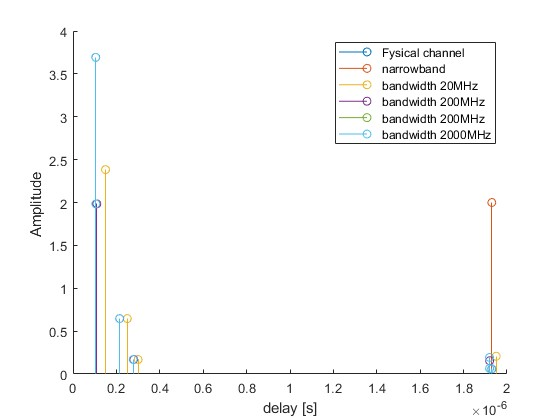
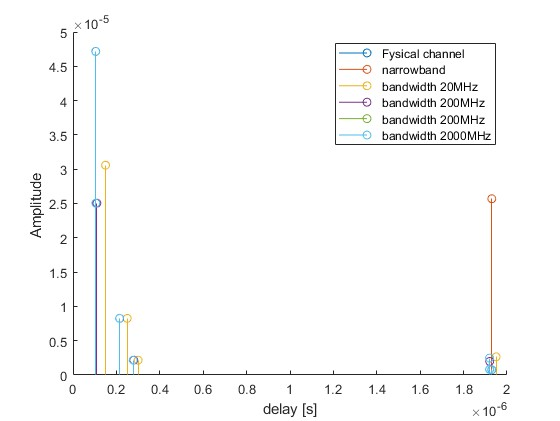
fixed impulse response (again)

diff --git a/receivedPowerCalc.m b/receivedPowerCalc.m
@@ -30,6 +30,7 @@ for i = 1:length(all_rx_xy(1,:))
             r_los = sqrt((all_rx_xy(1,i) - tx_x)^2 + (all_rx_xy(2,i) - tx_y)^2); %since same height
             r_gr = sqrt(r_los^2 + (2*h_bs)^2);
             theta = acos(h_bs/(r_gr/2));
+            G_gr = 16/(3*pi)*sin(theta)^3;
             effective_h_gr = -(c/Fc)/pi*cos(pi/2*cos(theta))/sin(theta)^2;
             lamba_parallel = (cos(theta) - sqrt(1/permitivity)*sqrt(1-1/permitivity*sin(theta)^2))/(cos(theta) + sqrt(1/permitivity)*sqrt(1-1/permitivity*sin(theta)^2));
             E_gr = lamba_parallel*sqrt(60*EIRP)/r_gr*exp(-1i*2*pi*Fc/c*r_gr);
@@ -746,7 +747,11 @@ for i = 1:length(all_rx_xy(1,:))
     % Voc and then Ra (see exercise slides 25 -> 19)
     received_power(i) = 1/(8*Ra)*abs(Voc)^2;
     rice_factor(i) = a0/an;
-    impulse_response(i,1,:) = impulse_response(i,1,:)./(Ra*sqrt(2*received_power(i)/Ra));
+    G = 16/(3*pi)*sin(pi/2)^3;
+
+    temp_impulse = impulse_response(i,1,2); %keep ground refl because G_gr is not equal to G
+    impulse_response(i,1,:) = sqrt(1/(8*Ra)).*impulse_response(i,1,:)./sqrt(EIRP/G);
+    impulse_response(i,1,2) = sqrt(1/(8*Ra)).*temp_impulse./sqrt(EIRP/G_gr);
 
     if(length(delays) <= 1)
         delay_spread(i) = 0;

diff --git a/main.m b/main.m
@@ -46,8 +46,8 @@ time_resolution = 1/BW; %s
 bs_to_wall_x = log10(10.5:299.5);
 connection_probability = [0.99 0.90 0.80 0.60 0.50];
 
-ray_traced_position = [39.5 ; 275.5];
-impulse_position = [39.5; 275.5]; %point where impulse response will be plotted
+ray_traced_position = [39.5 ; 4.5];
+impulse_position = [39.5; 4.5]; %point where impulse response will be plotted
 
 
 %% draw image
